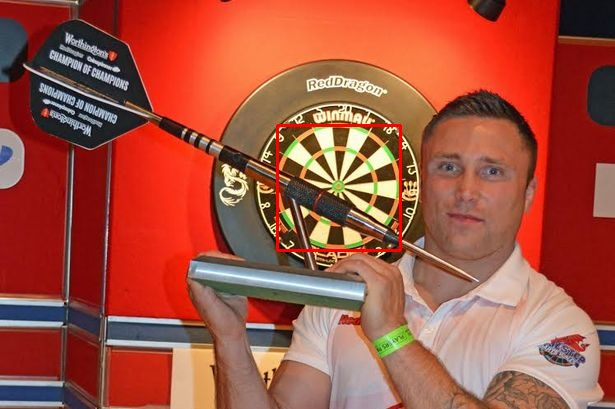
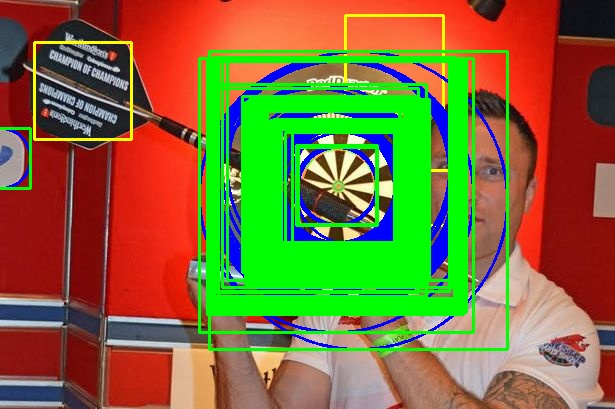
finish subtask3

Changed region(s): [[0.3089, 0.0293, 0.8341, 0.8802], [0.0, 0.088, 0.2472, 0.4694]]

diff --git a/DartboardDetector.py b/DartboardDetector.py
@@ -171,22 +171,22 @@ def intersection_over_union(boxA, boxB):
 def evaluate_detections(detections, ground_truth):
     TP = 0  # True Positives
     FP = 0  # False Positives
-    detected_indices = set()
 
     # Check each detection against ground truth data
-    for i, det in enumerate(detections):
+    for det in detections:
         match_found = False
-        for j, gt in enumerate(ground_truth):
-            if intersection_over_union(det, gt) > 0.5:  # threshold = 0.5
-                if j not in detected_indices:
-                    TP += 1
-                    detected_indices.add(j)
-                    match_found = True
-                    break
+        for gt in ground_truth:
+            if intersection_over_union(det, gt) > 0.2:  # Adjusted threshold to 0.2
+                TP += 1  # Increment for each detection that matches
+                match_found = True
+                break  # Stop checking once a match is found
+
         if not match_found:
-            FP += 1
+            FP += 1  # Increment false positives
 
     FN = len(ground_truth) - TP  # False Negatives
+    if FN < 0:
+        FN = 0  # Ensure FN is not negative
 
     # Calculate TPR and F1-score
     TPR = TP / (TP + FN) if (TP + FN) != 0 else 0
@@ -197,16 +197,32 @@ def evaluate_detections(detections, ground_truth):
     return TPR, F1
 
 
+
+
 # Combines evidence from Viola-Jones and Hough Transform detections
 def combine_evidence(vj_detections, hough_detections):
     combined_detections = []
-    for (x, y, w, h) in vj_detections:
-        for (y0, x0, r) in hough_detections:
-            # Check if the Hough circle center is within the Viola-Jones detection
+
+    # Check each Hough detection for overlap with VJ detections
+    for (y0, x0, r) in hough_detections:
+        hough_circle = (x0 - r, y0 - r, 2 * r, 2 * r)  # Convert circle to bounding box
+        overlap_with_vj = False
+
+        for (x, y, w, h) in vj_detections:
+            # Check if the center of the Hough circle falls within the VJ detection
             if x <= x0 < x + w and y <= y0 < y + h:
-                combined_detections.append((x, y, w, h))
+                overlap_with_vj = True
                 break
+
+        if overlap_with_vj:
+            combined_detections.append((x, y, w, h))  # Add overlapping Hough detections as VJ detection
+        else:
+            combined_detections.append(hough_circle)  # Add non-overlapping Hough detections
+
     return combined_detections
+
+
+
 
 
 # Perform detection and display the results
@@ -219,22 +235,22 @@ def detect_and_display(image, ground_truth, model, image_name, output_path):
     dartboards_vj = model.detectMultiScale(gray_image, scaleFactor=1.1, minNeighbors=5, minSize=(20, 20), maxSize=(230,230))
 
     # Hough Circle Transform detection
-    circle_centers = hough_transform_circle(gray_image, derivativeInX, derivativeInY, 15, 10, 150)
+    circle_centers = hough_transform_circle(gray_image, derivativeInX, derivativeInY, 15, 30, 150)
 
     # Combine evidence from both methods
     combined_detections = combine_evidence(dartboards_vj, circle_centers)
 
     # # Draw rectangles around the detected dartboards (in Yellow)
-    # for (x, y, w, h) in dartboards_vj:
-    #     cv2.rectangle(image, (x, y), (x+w, y+h), (0, 255, 255), 2)  # Yellow
+    for (x, y, w, h) in dartboards_vj:
+        cv2.rectangle(image, (x, y), (x+w, y+h), (0, 255, 255), 2)  # Yellow
 
     # Draw ground truth bounding boxes (in red)
     for (x, y, w, h) in ground_truth:
         cv2.rectangle(image, (x, y), (x+w, y+h), (0, 0, 255), 2)
 
     # # Draw circles for Hough detections (in Blue)
-    # for (y0, x0, r) in circle_centers:
-    #     cv2.circle(image, (x0, y0), r, (255, 0, 0), 2)  # Blue
+    for (y0, x0, r) in circle_centers:
+        cv2.circle(image, (x0, y0), r, (255, 0, 0), 2)  # Blue
 
     # Draw rectangles around combined detections (in green)
     for (x, y, w, h) in combined_detections:

diff --git a/hough.py b/hough.py
@@ -1,8 +1,8 @@
 import cv2
 import numpy as np
 
-image = cv2.imread("Dartboard/dart11.jpg", cv2.IMREAD_GRAYSCALE)
-color_image = cv2.imread("Dartboard/dart11.jpg", cv2.IMREAD_COLOR)
+image = cv2.imread("Dartboard/dart0.jpg", cv2.IMREAD_GRAYSCALE)
+color_image = cv2.imread("Dartboard/dart0.jpg", cv2.IMREAD_COLOR)
 
 # Sobel's kernels
 # for derivative in the x direction
